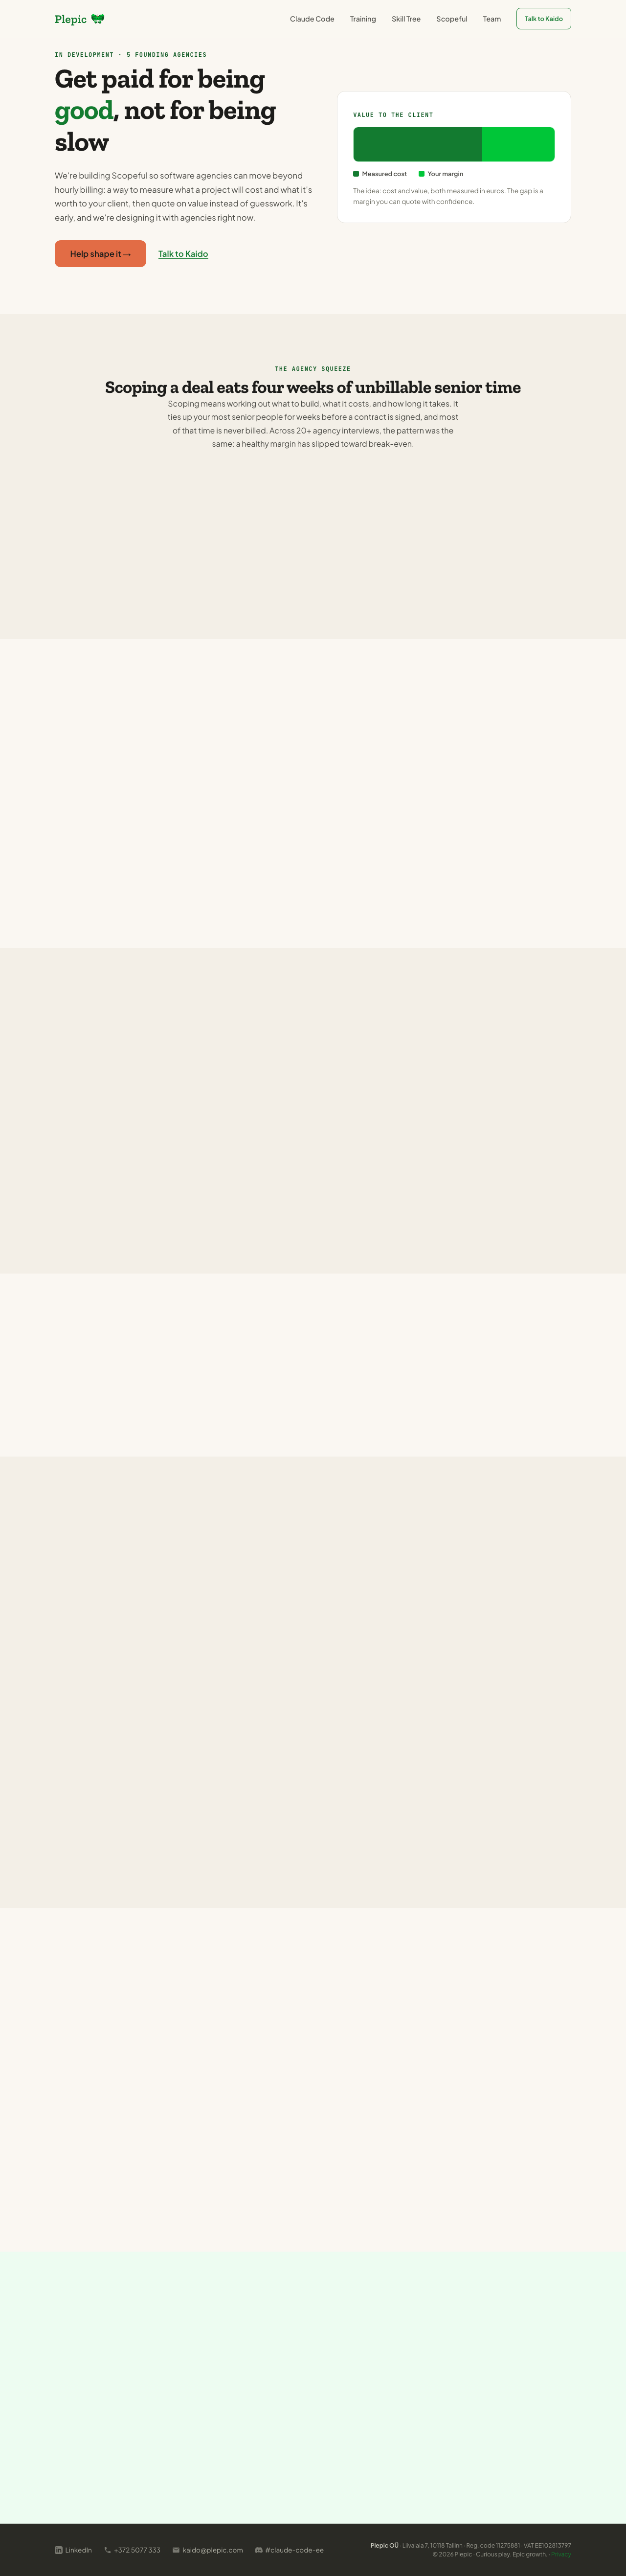
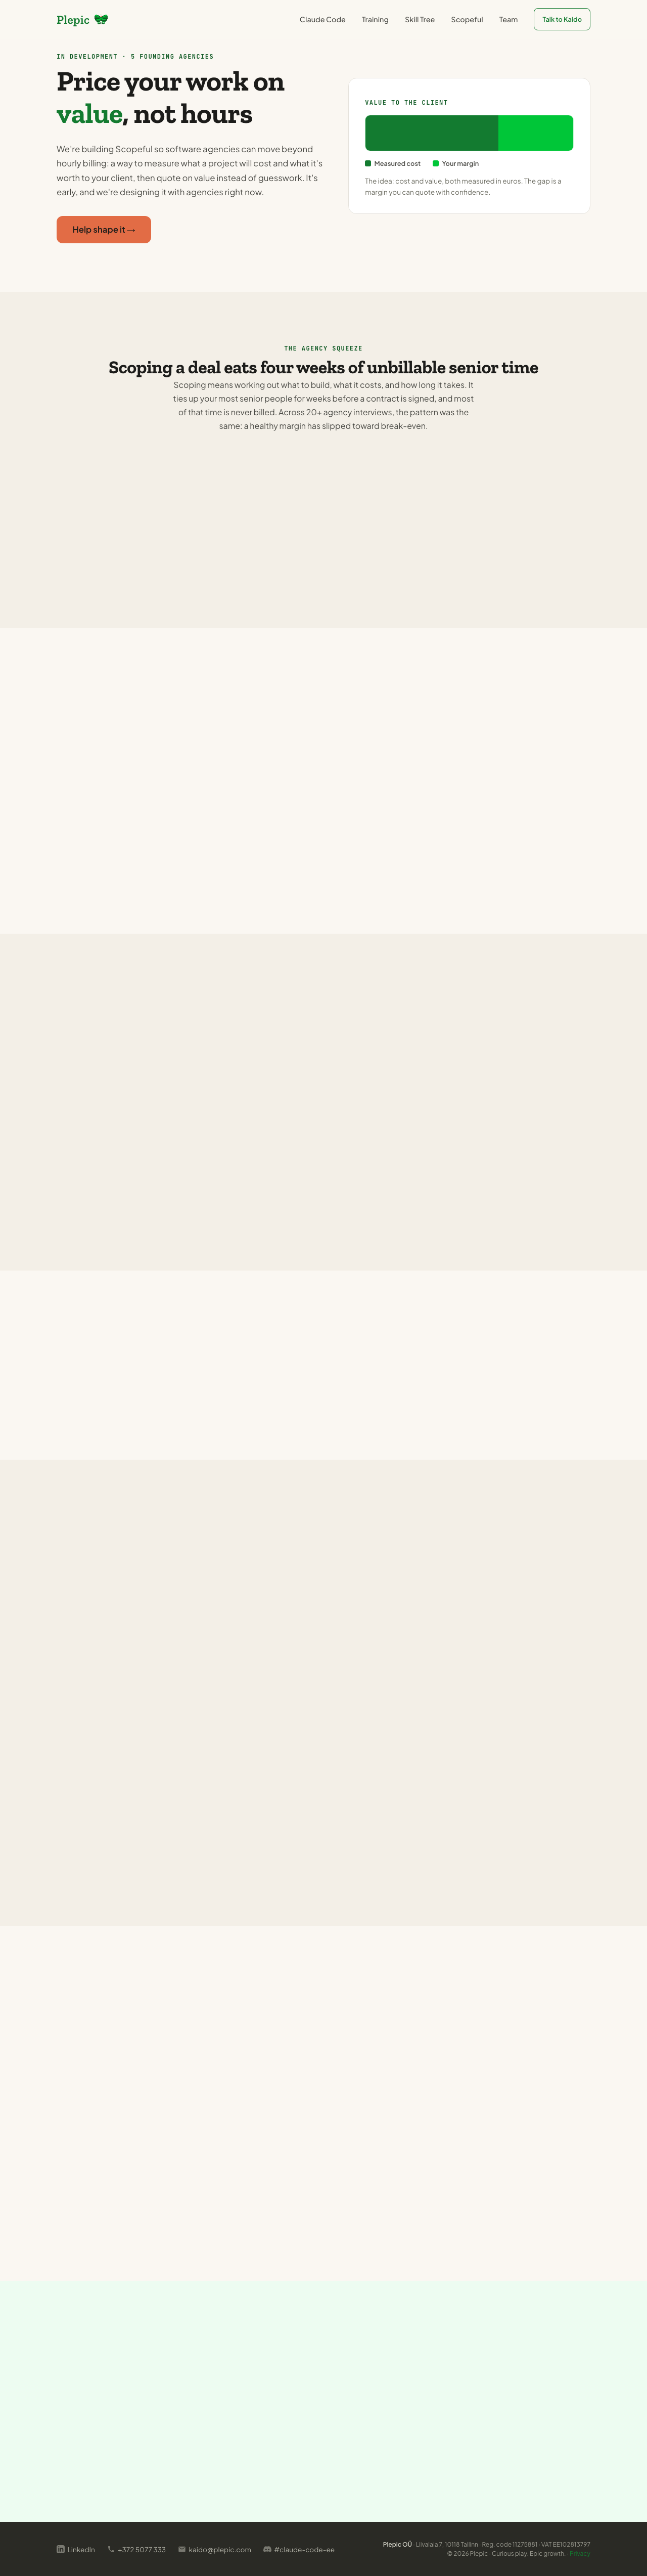
content(scopeful): de-duplicate CTAs, soften and tighten copy
Remove overlapping contact CTAs (email now footer-only): drop the hero
email ghost button and the "Prefer email?" line in the closing CTA.
Soften the H1 and closing copy toward an invitational, lower-pressure
tone, and trim verbosity in the hero, problem, and how-it-works intros.
Regenerate scopeful desktop/mobile visual snapshots for the layout shift.

Changed region(s): [[0.0938, 0.0, 0.8125, 0.1873], [0.5625, 0.0312, 0.9062, 0.0937]]

diff --git a/scopeful/index.html b/scopeful/index.html
@@ -98,13 +98,12 @@
         <div class="scopeful-hero-grid">
           <div class="scopeful-hero-text">
             <p class="label hero-entrance hero-entrance-1">In development &middot; 5 founding agencies</p>
-            <h1 class="hero-entrance hero-entrance-2">Get paid for being <span class="highlight">good</span>, not for being slow</h1>
+            <h1 class="hero-entrance hero-entrance-2">Price your work on <span class="highlight">value</span>, not hours</h1>
             <p class="scopeful-hero-description hero-entrance hero-entrance-3">
-              We're building Scopeful so software agencies can move beyond hourly billing: a way to measure what a project will cost and what it's worth to your client, then quote on value instead of guesswork. It's early, and we're designing it with agencies right now.
+              We're building Scopeful so agencies can move beyond hourly billing: measure what a project will cost and what it's worth to the client, then quote on value, not guesswork. It's early, and we're shaping it with agencies now.
             </p>
             <div class="btn-group hero-entrance hero-entrance-4">
               <a href="https://calendar.app.google/h5sq5y19e8a11GRQ7" target="_blank" rel="noopener noreferrer" class="btn btn-primary btn-lg">Help shape it &rarr;</a>
-              <a href="mailto:[email redacted]" class="btn btn-ghost btn-lg">Talk to Kaido</a>
             </div>
           </div>
           <div class="scopeful-hero-visual hero-entrance hero-entrance-5">
@@ -132,7 +131,7 @@
           <p class="label">The agency squeeze</p>
           <h2>Scoping a deal eats four weeks of unbillable senior time</h2>
           <p class="mx-auto text-dim max-w-600">
-            Scoping means working out what to build, what it costs, and how long it takes. It ties up your most senior people for weeks before a contract is signed, and most of that time is never billed. Across 20+ agency interviews, the pattern was the same: a healthy margin has slipped toward break-even.
+            Scoping means working out what to build, what it costs, and how long it takes. It ties up your most senior people for weeks before a contract is signed, mostly unbilled. Across 20+ agency interviews, the pattern repeated: a healthy margin slipping toward break-even.
           </p>
         </div>
 
@@ -159,7 +158,7 @@
           <p class="label">How it works</p>
           <h2>We <span class="highlight">measure</span> instead of predicting</h2>
           <p class="mx-auto text-dim max-w-600">
-            Estimates fail because nobody can reliably predict what custom software costs. Not 20-year veterans, not AI. So our bet is to stop estimating and start measuring, with the same coding agents we train hundreds of developers on. Here is the approach we're building and testing with agencies.
+            Estimates fail because nobody can reliably predict what custom software costs. Not 20-year veterans, not AI. So our bet is to stop estimating and start measuring, with the same coding agents we train hundreds of developers on.
           </p>
         </div>
 
@@ -352,7 +351,7 @@
       <div class="container">
         <div class="enlist-content reveal">
           <h2>Beyond time-based pricing</h2>
-          <p>We're building this with agencies, not for them. If you scope custom builds and want a say in how outcome-based pricing should work, let's talk. No pitch, just a conversation, and you'll be among the first to use it.</p>
+          <p>We're building this with agencies, not for them. If you scope custom builds and want a say in how outcome-based pricing should work, we'd welcome a conversation. No pressure either way, and founding agencies get first access when it's ready.</p>
 
           <a href="https://calendar.app.google/h5sq5y19e8a11GRQ7" target="_blank" rel="noopener noreferrer" class="btn-enlist">
             <svg width="24" height="24" viewBox="0 0 24 24" fill="currentColor">
@@ -360,10 +359,6 @@
             </svg>
             Talk to Kaido
           </a>
-
-          <p class="mt-xl text-sm text-opacity-70">
-            Prefer email? <a href="mailto:[email redacted]" class="text-void underline">[email redacted]</a>. No commitment.
-          </p>
         </div>
       </div>
     </section>